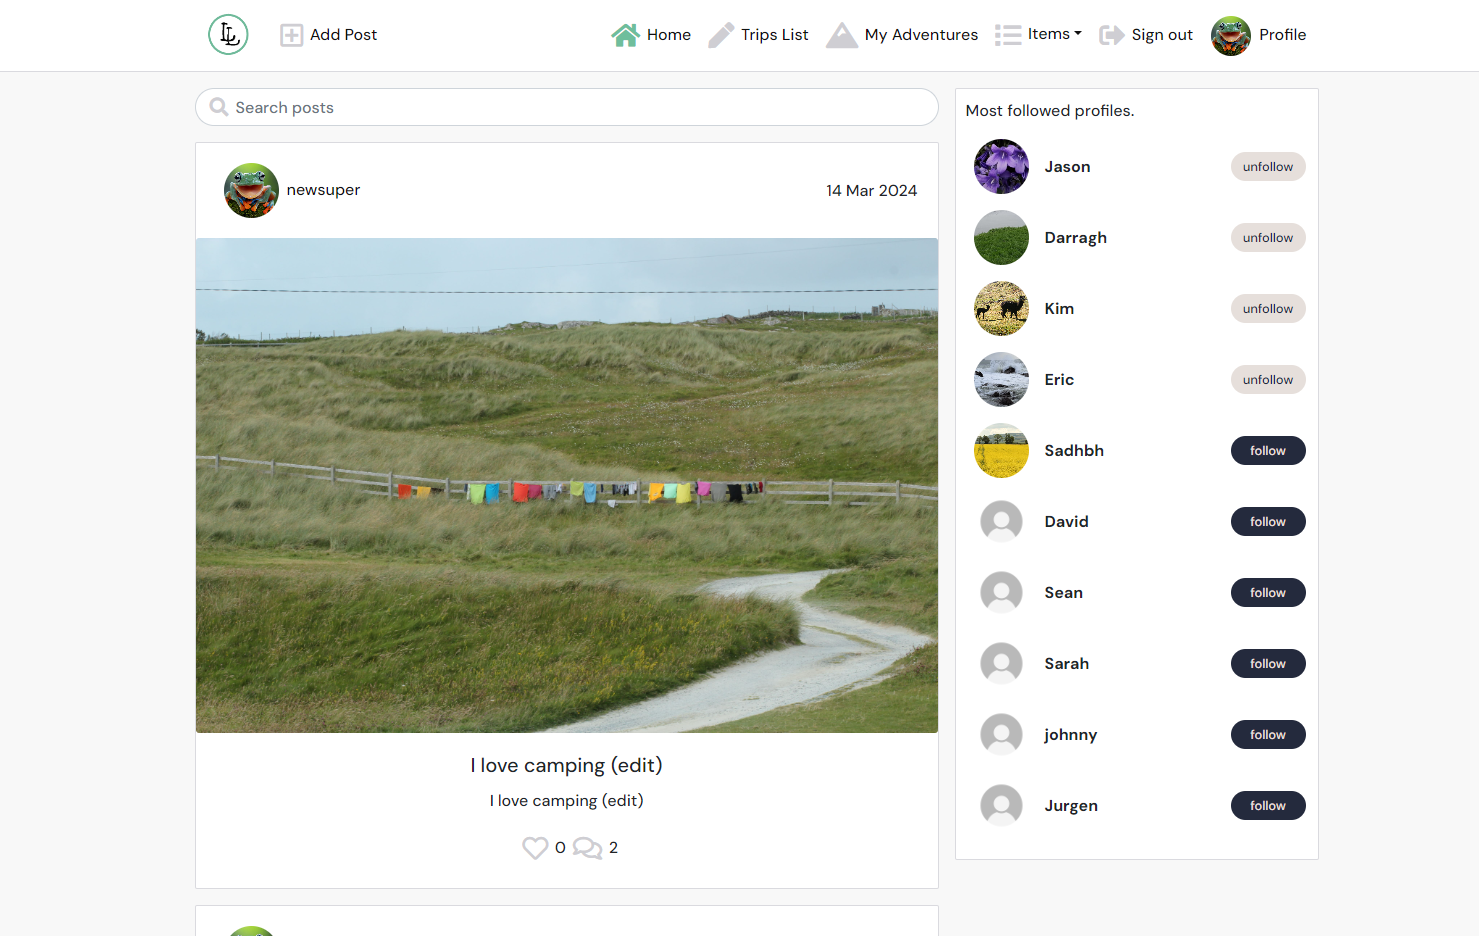
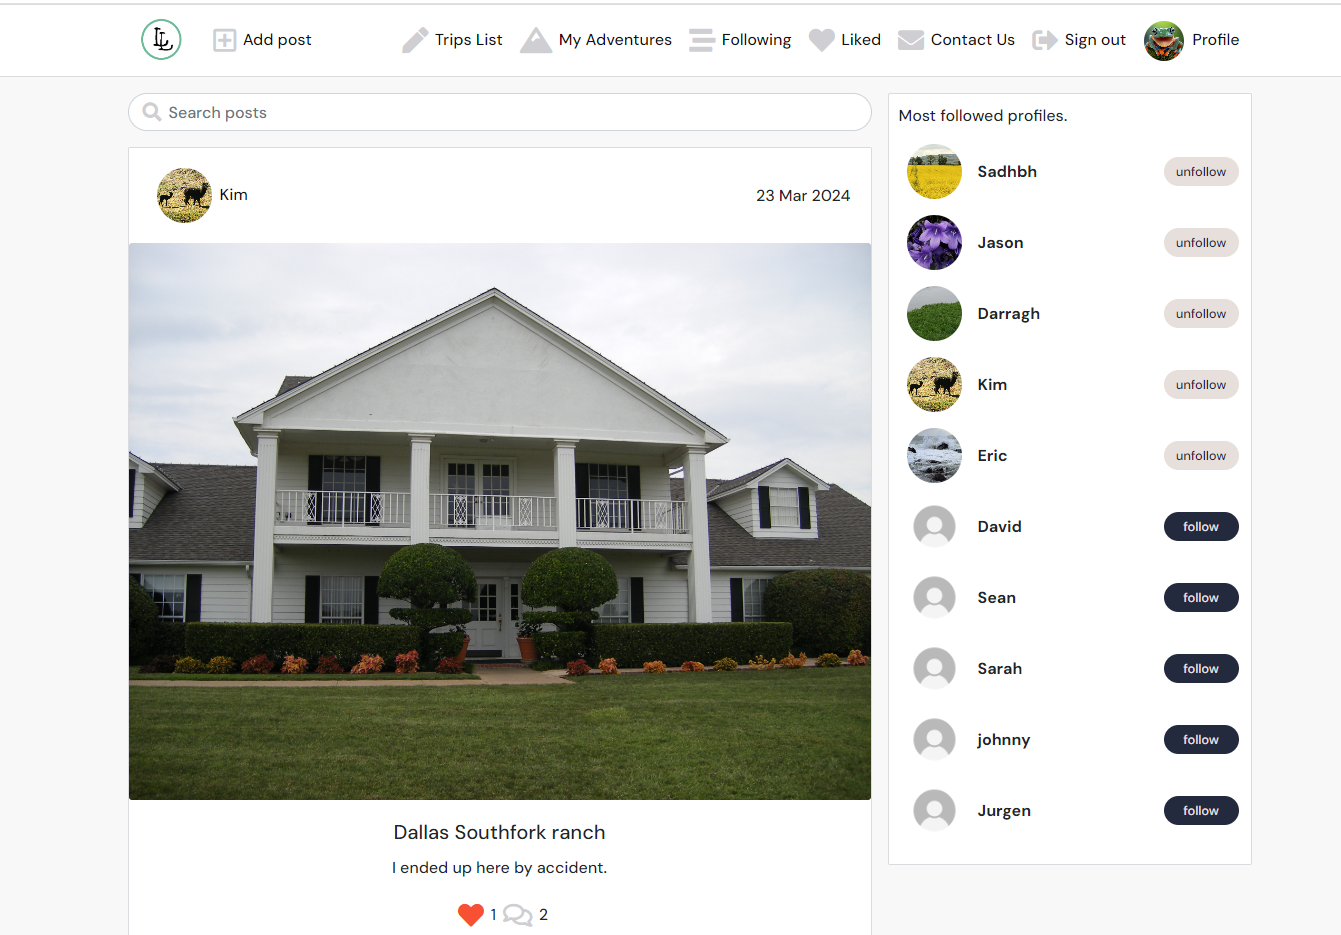
READme features images, Navbar removed dropdown

diff --git a/src/components/NavBar.js b/src/components/NavBar.js
@@ -1,35 +1,28 @@
 import React from "react";
-import { useState } from "react";
-import { Navbar } from "react-bootstrap";
-import { Container } from "react-bootstrap";
-import { Nav } from "react-bootstrap";
+import { Navbar, Container, Nav } from "react-bootstrap";
 import logo from "../assets/logo.png";
 import styles from "../styles/NavBar.module.css";
-import { Link } from "react-router-dom";
 import { NavLink } from "react-router-dom";
 import {
   useCurrentUser,
   useSetCurrentUser,
 } from "../contexts/CurrentUserContext";
 import Avatar from "./Avatar";
-import NavDropdown from "react-bootstrap/NavDropdown";
 import axios from "axios";
-import { removeTokenTimestamp } from "../utils/utils";
+import useClickOutsideToggle from "../hooks/useClickOutsideToggle";
 
 const NavBar = () => {
   const currentUser = useCurrentUser();
   const setCurrentUser = useSetCurrentUser();
 
-  const [toggleNavBar, setToggleNavBar] = useState();
+  const { expanded, setExpanded, ref } = useClickOutsideToggle();
 
   const handleSignOut = async () => {
     try {
       await axios.post("dj-rest-auth/logout/");
       setCurrentUser(null);
-      removeTokenTimestamp();
-    } 
-    catch (err) {
-    //   console.log(err);
+    } catch (err) {
+      console.log(err);
     }
   };
 
@@ -39,7 +32,7 @@ const NavBar = () => {
       activeClassName={styles.Active}
       to="/posts/create"
     >
-      <i className="far fa-plus-square"></i>Add Post
+      <i className="far fa-plus-square"></i>Add post
     </NavLink>
   );
   const loggedInIcons = (
@@ -58,48 +51,27 @@ const NavBar = () => {
       >
         <i className="fas fa-mountain"></i>My Adventures
       </NavLink>
-      <NavDropdown
-        id={styles.dropdownMenu}
-        title=<span 
-        className={`${styles.dropdownText} d-sm-inline-column`}>
-          <i className="fas fa-list"></i>
-          Items
-        </span>
-        >
-      <NavDropdown.Item
-          id={styles.dropdownItem}
-          as={Link}
-          className={styles.NavLink}
-          to="/following"
-          onClick={() => {
-            setToggleNavBar(!toggleNavBar);
-          }}
-        >
-          <i className="fas fa-stream"></i>Following
-        </NavDropdown.Item>
-        <NavDropdown.Item
-          id={styles.dropdownItem}
-          as={Link}
-          className={styles.NavLink}
-          to="/liked"
-          onClick={() => {
-            setToggleNavBar(!toggleNavBar);
-          }}
-        >
-          <i className="fas fa-heart"></i>Liked
-        </NavDropdown.Item>
-        <NavDropdown.Item
-          id={styles.dropdownItem}
-          className={styles.NavLink}
-          as={Link}
-          to="/contact"
-          onClick={() => {
-            setToggleNavBar(!toggleNavBar);
-          }}
-        >
-          <i className="fas fa-envelope"></i>Contact Us
-        </NavDropdown.Item>
-      </NavDropdown>
+      <NavLink
+        className={styles.NavLink}
+        activeClassName={styles.Active}
+        to="/following"
+      >
+        <i className="fas fa-stream"></i>Following
+      </NavLink>
+      <NavLink
+        className={styles.NavLink}
+        activeClassName={styles.Active}
+        to="/liked"
+      >
+        <i className="fas fa-heart"></i>Liked
+      </NavLink>
+      <NavLink
+        className={styles.NavLink}
+        activeClassName={styles.Active}
+        to="/contact"
+      >
+        <i className="fas fa-envelope"></i>Contact Us
+      </NavLink>
       <NavLink className={styles.NavLink} to="/" onClick={handleSignOut}>
         <i className="fas fa-sign-out-alt"></i>Sign out
       </NavLink>
@@ -112,7 +84,15 @@ const NavBar = () => {
     </>
   );
   const loggedOutIcons = (
-    <>    
+    <>
+      <NavLink
+        exact
+        className={styles.NavLink}
+        activeClassName={styles.Active}
+        to="/"
+        >
+        <i className="fas fa-home"></i>Home
+      </NavLink>
       <NavLink
         className={styles.NavLink}
         activeClassName={styles.Active}
@@ -139,11 +119,10 @@ const NavBar = () => {
 
   return (
     <Navbar
-      expanded={toggleNavBar}
+      expanded={expanded}
       className={styles.NavBar}
       expand="md"
       fixed="top"
-      collapseOnSelect
     >
       <Container>
         <NavLink to="/">
@@ -153,23 +132,21 @@ const NavBar = () => {
         </NavLink>
         {currentUser && addPostIcon}
         <Navbar.Toggle
-        
-          onClick={() => {
-            setToggleNavBar(!toggleNavBar);
-          }}
-          
+          ref={ref}
+          onClick={() => setExpanded(!expanded)}
           aria-controls="basic-navbar-nav"
         />
         <Navbar.Collapse id="basic-navbar-nav">
-          <Nav className="ml-auto text-right">
-            <NavLink
+          <Nav className="ml-auto text-left">
+            {/* <NavLink
               exact
               className={styles.NavLink}
               activeClassName={styles.Active}
               to="/"
             >
               <i className="fas fa-home"></i>Home
-            </NavLink>
+            </NavLink> */}
+
             {currentUser ? loggedInIcons : loggedOutIcons}
           </Nav>
         </Navbar.Collapse>

diff --git a/src/pages/comments/CommentEditForm.js b/src/pages/comments/CommentEditForm.js
@@ -34,6 +34,7 @@ function CommentEditForm(props) {
       }));
       setShowEditForm(false);
     } catch (err) {
+    
     //   console.log(err);
     }
   };

diff --git a/README.md b/README.md
@@ -167,7 +167,9 @@ Using publisher and paint I created the logo. Font Kristen ITC was used for the 
 
 ### Navbar
 
-- Live Life's navbar, is visible at all times. When a user first visits the site, the navbar displayed has a Sign Up link and a contact us link. The user is able to contact the site owners if there having any issues. The user is able to create an account in the sign up link.
+- Live Life's navbar, is visible at all times. When a user first visits the site, the navbar displayed has a Sign Up link and a contact us link.
+- The user is able to contact the site owners if there having any issues. The user is able to create an account in the sign up link.
+- ***The Live Life logo is the Home link***
 
 <img src="readmedoc/navbarsignedout.png" alt="Navbar Signed Out  Page">
 
@@ -175,9 +177,6 @@ Using publisher and paint I created the logo. Font Kristen ITC was used for the 
 
 <img src="readmedoc/navbar.png" alt="Navbar Page">
 
-- There is a dropdown menu for Following / Liked and Contact Us. These are in a dropdown section so the user has access to them when needed but not to distract them from using the main features of the site. 
-
-<img src="readmedoc/navbardropdown.png" alt="Navbar Dropdown Page">
 
 ### Authentication
 
@@ -189,6 +188,7 @@ Using publisher and paint I created the logo. Font Kristen ITC was used for the 
 
 ### Home Page
 
+- ***The Live Life logo is the Home link***
 - This is the sites landing page. The user has access to Add Post, Their personal Trip List, their personal Adventure posts, Items containing Liked posts, following users, and contact site owners, Sign out and their Profile page, where user can edit their profile by changing (name, password).
 
 <img src="readmedoc/landingpage.png" alt="Landing Page">
@@ -241,7 +241,11 @@ Using publisher and paint I created the logo. Font Kristen ITC was used for the 
 
 - Here users can see the posts from the other profiles that their following, users won't see posts from profiles that their not following. 
 
+### Following
+
 <img src="readmedoc/following.png" alt="Following">
+
+### Liked
 
 - Here users can see the posts that they have liked and no other posts. 
 
